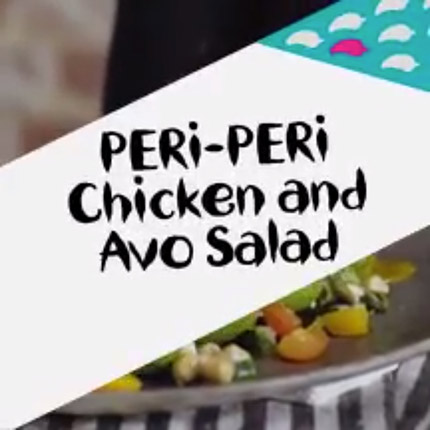
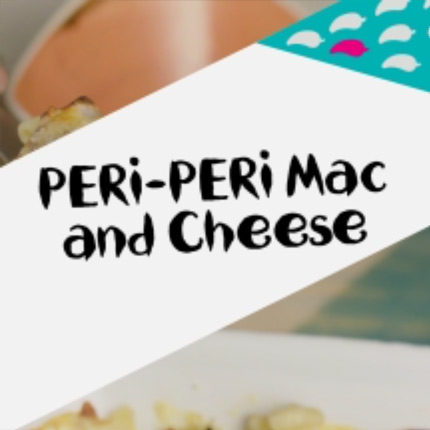
Updated for MacnCheese creative.

diff --git a/app/rich/templates/index.html b/app/rich/templates/index.html
@@ -30,7 +30,7 @@
             <div class="video">
                 <img class="play-icon" data-aload="play-icon.png" />
                 <img class="preview" data-aload="preview.jpg" />
-                <div class="video-inner" data-video="_e-LbKc1XZU"></div>
+                <div class="video-inner" data-video="qX7gGLcxGAw"></div>
             </div>
             <div class="button">
                 <span>WATCH NOW</span>
